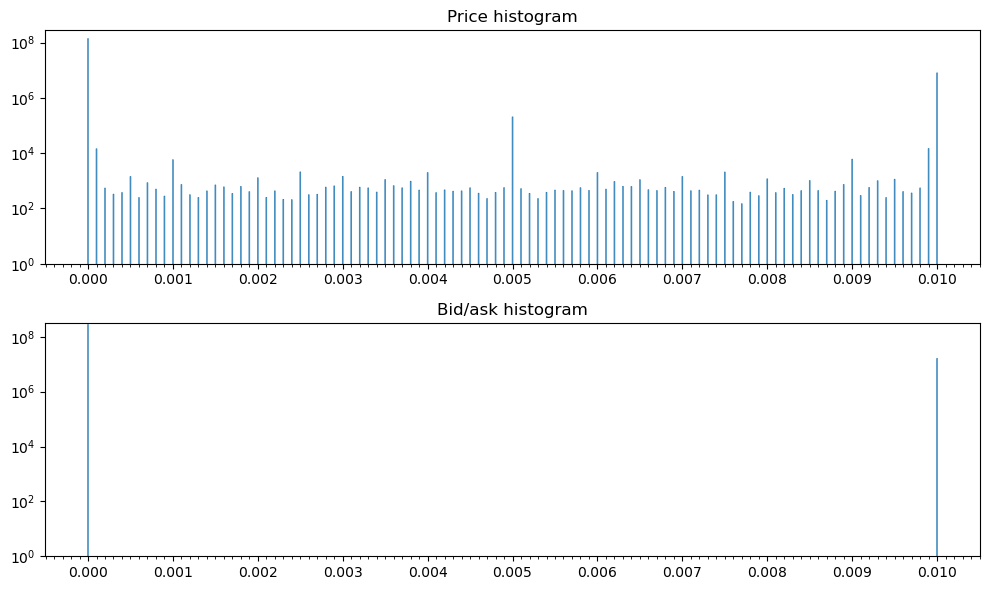
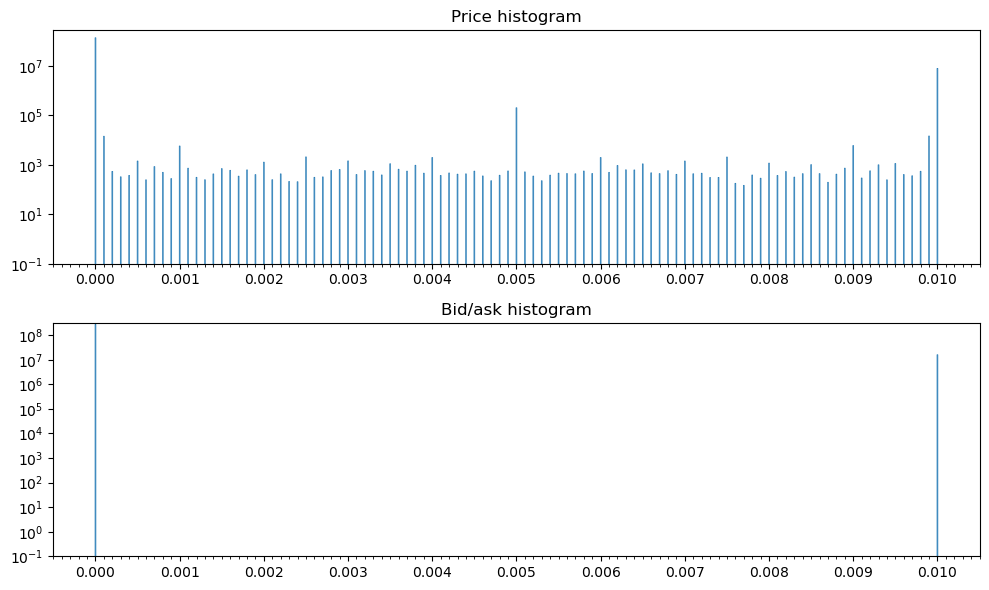
publishing

diff --git a/docs/posts/penny/penny.html b/docs/posts/penny/penny.html
@@ -217,50 +217,59 @@ code span.wa { color: #60a0b0; font-weight: bold; font-style: italic; } /* Warni
 <p>When dealing with market data that is obtained from any source, it is important to understand the precision of the price data for two reasons. The first is that sometimes, comparisons between prices are needed to assign a probability to certain events. For example, to predict whether a buy limit order will be filled, the low price of the next time interval needs to be compared to the limit price of the order. Further, the comparison may need to conclude if the limit price will be reached, indicating a probability of execution, or crossed (i.e., the low price unmistakably reached below the limit price) indicating definite execution (with some unrelated caveats). The second reason has to do with data representation which has implications on the amount of storage needed (both in memory and on disk) as well as processing time. The possible choices are usually 32-bit vs 64-bit and integer vs floating point.</p>
 <p>Although sub-penny quoting is <a href="https://www.sec.gov/divisions/marketreg/subpenny612faq.htm">not allowed</a> by the SEC for orders above $1, it does not prevent trades from happening at any price. It is therefore expected to see open, high, low, close (OHLC) prices that are not multiples of $0.01. Bid and ask OHLC prices, however, are expected to be multiples of $0.01.</p>
 <p>In this post, I will explore the precision characteristics of stock price data that was obtained from a market data vendor and derive suitable data representation for it.</p>
-<div class="cell" data-execution_count="4">
+<div class="cell" data-execution_count="5">
 <div class="cell-output cell-output-display">
 <p>The data comprises 1-minute intervals for 44 symbols over a period of 2590 trading days (between 2012 and 2022). The total number of days from all stocks that have data is 94438 (which is 83% of trading days due to missing data, e.g., stocks that were not in existence during the entire period)</p>
 </div>
 </div>
 <p>Let us plot a histogram of the sub-penny values, with bin width of $0.00001 (1/1000th of a penny).</p>
-<div class="cell" data-execution_count="6">
+<div class="cell" data-execution_count="32">
 <details>
 <summary>Code</summary>
 <div class="sourceCode cell-code" id="cb1"><pre class="sourceCode python code-with-copy"><code class="sourceCode python"><span id="cb1-1"><a href="#cb1-1" aria-hidden="true" tabindex="-1"></a><span class="co"># ohlc has shape (n_days, 3, 4): (n_days, [price,bid,ask], [open,high,low,close])</span></span>
 <span id="cb1-2"><a href="#cb1-2" aria-hidden="true" tabindex="-1"></a>fracs <span class="op">=</span> np.modf(ohlc<span class="op">*</span><span class="fl">100.0</span>)[<span class="dv">0</span>]<span class="op">/</span><span class="fl">100.0</span> <span class="co"># keep only sub-cent fractions</span></span>
-<span id="cb1-3"><a href="#cb1-3" aria-hidden="true" tabindex="-1"></a>samples, step <span class="op">=</span> np.linspace(start<span class="op">=</span><span class="dv">0</span>,stop<span class="op">=</span><span class="fl">.01</span>,num<span class="op">=</span><span class="dv">1001</span>,endpoint<span class="op">=</span><span class="va">True</span>, retstep<span class="op">=</span><span class="va">True</span>)</span>
-<span id="cb1-4"><a href="#cb1-4" aria-hidden="true" tabindex="-1"></a>bins<span class="op">=</span>np.concatenate((samples<span class="op">-</span>step<span class="op">/</span><span class="dv">2</span>, [samples[<span class="op">-</span><span class="dv">1</span>]<span class="op">+</span>step<span class="op">/</span><span class="dv">2</span>]))</span>
-<span id="cb1-5"><a href="#cb1-5" aria-hidden="true" tabindex="-1"></a><span class="co"># these bins have a .0001 width (x±.00005 where x is any multiple of .0001 between 0 and .01)</span></span>
-<span id="cb1-6"><a href="#cb1-6" aria-hidden="true" tabindex="-1"></a><span class="co"># bins can also be set to just the value 1001 (which causes them to be computed automatically)</span></span>
-<span id="cb1-7"><a href="#cb1-7" aria-hidden="true" tabindex="-1"></a></span>
-<span id="cb1-8"><a href="#cb1-8" aria-hidden="true" tabindex="-1"></a>fig<span class="op">=</span>plt.figure(figsize<span class="op">=</span>(<span class="dv">10</span>,<span class="dv">6</span>))</span>
-<span id="cb1-9"><a href="#cb1-9" aria-hidden="true" tabindex="-1"></a></span>
-<span id="cb1-10"><a href="#cb1-10" aria-hidden="true" tabindex="-1"></a><span class="co"># price histogram</span></span>
-<span id="cb1-11"><a href="#cb1-11" aria-hidden="true" tabindex="-1"></a>ax<span class="op">=</span>fig.add_subplot(<span class="dv">211</span>)</span>
-<span id="cb1-12"><a href="#cb1-12" aria-hidden="true" tabindex="-1"></a>ax.hist(fracs[:,<span class="dv">0</span>,:].flatten(), bins<span class="op">=</span>bins, histtype<span class="op">=</span><span class="st">'step'</span>, linewidth<span class="op">=</span><span class="fl">.5</span>, log<span class="op">=</span><span class="va">True</span>) </span>
-<span id="cb1-13"><a href="#cb1-13" aria-hidden="true" tabindex="-1"></a>ax.set_ylim(bottom<span class="op">=</span><span class="fl">1.0</span>)</span>
-<span id="cb1-14"><a href="#cb1-14" aria-hidden="true" tabindex="-1"></a><span class="co"># set x tickmarks every .0001</span></span>
-<span id="cb1-15"><a href="#cb1-15" aria-hidden="true" tabindex="-1"></a>ax.xaxis.set_minor_locator(MultipleLocator(<span class="fl">.0001</span>))</span>
-<span id="cb1-16"><a href="#cb1-16" aria-hidden="true" tabindex="-1"></a>ax.xaxis.set_major_locator(MultipleLocator(<span class="fl">.001</span>))</span>
-<span id="cb1-17"><a href="#cb1-17" aria-hidden="true" tabindex="-1"></a>ax.set_title(<span class="st">'Price histogram'</span>)</span>
-<span id="cb1-18"><a href="#cb1-18" aria-hidden="true" tabindex="-1"></a></span>
-<span id="cb1-19"><a href="#cb1-19" aria-hidden="true" tabindex="-1"></a><span class="co"># bid/ask histogram</span></span>
-<span id="cb1-20"><a href="#cb1-20" aria-hidden="true" tabindex="-1"></a>ax<span class="op">=</span>fig.add_subplot(<span class="dv">212</span>)</span>
-<span id="cb1-21"><a href="#cb1-21" aria-hidden="true" tabindex="-1"></a>ax.hist(fracs[:,<span class="dv">1</span>:,:].flatten(), bins<span class="op">=</span>bins, histtype<span class="op">=</span><span class="st">'step'</span>, linewidth<span class="op">=</span><span class="fl">.5</span>, log<span class="op">=</span><span class="va">True</span>) </span>
-<span id="cb1-22"><a href="#cb1-22" aria-hidden="true" tabindex="-1"></a>ax.set_ylim(bottom<span class="op">=</span><span class="fl">1.0</span>)</span>
-<span id="cb1-23"><a href="#cb1-23" aria-hidden="true" tabindex="-1"></a><span class="co"># set x tickmarks every .0001</span></span>
-<span id="cb1-24"><a href="#cb1-24" aria-hidden="true" tabindex="-1"></a>ax.xaxis.set_minor_locator(MultipleLocator(<span class="fl">.0001</span>))</span>
-<span id="cb1-25"><a href="#cb1-25" aria-hidden="true" tabindex="-1"></a>ax.xaxis.set_major_locator(MultipleLocator(<span class="fl">.001</span>))</span>
-<span id="cb1-26"><a href="#cb1-26" aria-hidden="true" tabindex="-1"></a>ax.set_title(<span class="st">'Bid/ask histogram'</span>)</span>
-<span id="cb1-27"><a href="#cb1-27" aria-hidden="true" tabindex="-1"></a></span>
-<span id="cb1-28"><a href="#cb1-28" aria-hidden="true" tabindex="-1"></a>plt.tight_layout()</span></code><button title="Copy to Clipboard" class="code-copy-button"><i class="bi"></i></button></pre></div>
+<span id="cb1-3"><a href="#cb1-3" aria-hidden="true" tabindex="-1"></a><span class="co"># can also be done like this:</span></span>
+<span id="cb1-4"><a href="#cb1-4" aria-hidden="true" tabindex="-1"></a><span class="co"># _,w = np.modf(ohlc*100.0)</span></span>
+<span id="cb1-5"><a href="#cb1-5" aria-hidden="true" tabindex="-1"></a><span class="co"># fracs = ohlc - w/100.0</span></span>
+<span id="cb1-6"><a href="#cb1-6" aria-hidden="true" tabindex="-1"></a>samples, step <span class="op">=</span> np.linspace(start<span class="op">=</span><span class="dv">0</span>,stop<span class="op">=</span><span class="fl">.01</span>,num<span class="op">=</span><span class="dv">1001</span>,endpoint<span class="op">=</span><span class="va">True</span>, retstep<span class="op">=</span><span class="va">True</span>)</span>
+<span id="cb1-7"><a href="#cb1-7" aria-hidden="true" tabindex="-1"></a>bins<span class="op">=</span>np.concatenate((samples<span class="op">-</span>step<span class="op">/</span><span class="dv">2</span>, [samples[<span class="op">-</span><span class="dv">1</span>]<span class="op">+</span>step<span class="op">/</span><span class="dv">2</span>]))</span>
+<span id="cb1-8"><a href="#cb1-8" aria-hidden="true" tabindex="-1"></a><span class="co"># these bins have a .0001 width (x±.00005 where x is any multiple of .0001 between 0 and .01)</span></span>
+<span id="cb1-9"><a href="#cb1-9" aria-hidden="true" tabindex="-1"></a><span class="co"># bins can also be set to just the value 1001 (which causes them to be computed automatically)</span></span>
+<span id="cb1-10"><a href="#cb1-10" aria-hidden="true" tabindex="-1"></a></span>
+<span id="cb1-11"><a href="#cb1-11" aria-hidden="true" tabindex="-1"></a>fig<span class="op">=</span>plt.figure(figsize<span class="op">=</span>(<span class="dv">10</span>,<span class="dv">6</span>))</span>
+<span id="cb1-12"><a href="#cb1-12" aria-hidden="true" tabindex="-1"></a></span>
+<span id="cb1-13"><a href="#cb1-13" aria-hidden="true" tabindex="-1"></a><span class="co"># price histogram</span></span>
+<span id="cb1-14"><a href="#cb1-14" aria-hidden="true" tabindex="-1"></a>ax<span class="op">=</span>fig.add_subplot(<span class="dv">211</span>)</span>
+<span id="cb1-15"><a href="#cb1-15" aria-hidden="true" tabindex="-1"></a>ax.hist(fracs[:,<span class="dv">0</span>,:].flatten(), bins<span class="op">=</span>bins, histtype<span class="op">=</span><span class="st">'step'</span>, linewidth<span class="op">=</span><span class="fl">.5</span>, log<span class="op">=</span><span class="va">True</span>) </span>
+<span id="cb1-16"><a href="#cb1-16" aria-hidden="true" tabindex="-1"></a><span class="co"># start below 1.0 so even a count of 1 shows up; show all powers</span></span>
+<span id="cb1-17"><a href="#cb1-17" aria-hidden="true" tabindex="-1"></a>ax.set_ylim(bottom<span class="op">=</span><span class="fl">0.1</span>)</span>
+<span id="cb1-18"><a href="#cb1-18" aria-hidden="true" tabindex="-1"></a>ax.yaxis.set_major_locator(matplotlib.ticker.LogLocator(numticks<span class="op">=</span><span class="dv">20</span>))</span>
+<span id="cb1-19"><a href="#cb1-19" aria-hidden="true" tabindex="-1"></a>ax.grid(axis<span class="op">=</span><span class="st">'y'</span>)</span>
+<span id="cb1-20"><a href="#cb1-20" aria-hidden="true" tabindex="-1"></a><span class="co"># set x tickmarks every .0001</span></span>
+<span id="cb1-21"><a href="#cb1-21" aria-hidden="true" tabindex="-1"></a>ax.xaxis.set_minor_locator(matplotlib.ticker.MultipleLocator(<span class="fl">.0001</span>))</span>
+<span id="cb1-22"><a href="#cb1-22" aria-hidden="true" tabindex="-1"></a>ax.xaxis.set_major_locator(matplotlib.ticker.MultipleLocator(<span class="fl">.001</span>))</span>
+<span id="cb1-23"><a href="#cb1-23" aria-hidden="true" tabindex="-1"></a>ax.set_title(<span class="st">'Price histogram'</span>)</span>
+<span id="cb1-24"><a href="#cb1-24" aria-hidden="true" tabindex="-1"></a></span>
+<span id="cb1-25"><a href="#cb1-25" aria-hidden="true" tabindex="-1"></a><span class="co"># bid/ask histogram</span></span>
+<span id="cb1-26"><a href="#cb1-26" aria-hidden="true" tabindex="-1"></a>ax<span class="op">=</span>fig.add_subplot(<span class="dv">212</span>)</span>
+<span id="cb1-27"><a href="#cb1-27" aria-hidden="true" tabindex="-1"></a>ax.hist(fracs[:,<span class="dv">1</span>:,:].flatten(), bins<span class="op">=</span>bins, histtype<span class="op">=</span><span class="st">'step'</span>, linewidth<span class="op">=</span><span class="fl">.5</span>, log<span class="op">=</span><span class="va">True</span>) </span>
+<span id="cb1-28"><a href="#cb1-28" aria-hidden="true" tabindex="-1"></a><span class="co"># start below 1.0 so even a count of 1 shows up; show all powers</span></span>
+<span id="cb1-29"><a href="#cb1-29" aria-hidden="true" tabindex="-1"></a>ax.set_ylim(bottom<span class="op">=</span><span class="fl">0.1</span>)</span>
+<span id="cb1-30"><a href="#cb1-30" aria-hidden="true" tabindex="-1"></a>ax.yaxis.set_major_locator(matplotlib.ticker.LogLocator(numticks<span class="op">=</span><span class="dv">20</span>))</span>
+<span id="cb1-31"><a href="#cb1-31" aria-hidden="true" tabindex="-1"></a>ax.grid(axis<span class="op">=</span><span class="st">'y'</span>)</span>
+<span id="cb1-32"><a href="#cb1-32" aria-hidden="true" tabindex="-1"></a><span class="co"># set x tickmarks every .0001</span></span>
+<span id="cb1-33"><a href="#cb1-33" aria-hidden="true" tabindex="-1"></a>ax.xaxis.set_minor_locator(matplotlib.ticker.MultipleLocator(<span class="fl">.0001</span>))</span>
+<span id="cb1-34"><a href="#cb1-34" aria-hidden="true" tabindex="-1"></a>ax.xaxis.set_major_locator(matplotlib.ticker.MultipleLocator(<span class="fl">.001</span>))</span>
+<span id="cb1-35"><a href="#cb1-35" aria-hidden="true" tabindex="-1"></a>ax.set_title(<span class="st">'Bid/ask histogram'</span>)</span>
+<span id="cb1-36"><a href="#cb1-36" aria-hidden="true" tabindex="-1"></a></span>
+<span id="cb1-37"><a href="#cb1-37" aria-hidden="true" tabindex="-1"></a>plt.tight_layout()</span></code><button title="Copy to Clipboard" class="code-copy-button"><i class="bi"></i></button></pre></div>
 </details>
 <div class="cell-output cell-output-display">
 <p><img src="penny_files/figure-html/cell-7-output-1.png" class="img-fluid"></p>
 </div>
 </div>
-<p>Two observations can be made from the histograms. First, the prices occur at 0.0001 intervals (1/100th of a penny). We know this because the histogram has 10 times more bins and all but those 100 are empty. Second, the bid/ask prices, as expected, are multiples of $0.01. We also see that the bin surrounding $0.01 is nonempty which means that the prices may have some numeric precision fluctuation around their expected discrete values. But this is likely due to how we computed the sub-penny fractions (which involved multiplying by 100). To verify that, we can compare the original data to its rounded (to 4 decimals for price and to 2 decimals for bid/ask) version:</p>
-<div class="cell" data-execution_count="7">
+<p>Two observations can be made from the histograms. First, the prices occur at 0.0001 intervals (1/100th of a penny). We know this because the histogram has 10 times more bins and all but those 100 are empty. Second, the bid/ask prices, as expected, are multiples of $0.01. We also see that the bin surrounding $0.01 is nonempty which means that the prices may have some numeric precision fluctuation around their expected discrete values. But this is likely introduced in the process of extracting the sub-penny fractions. To verify that, we can compare the original data to its rounded (to 4 decimals for price and to 2 decimals for bid/ask) version:</p>
+<div class="cell" data-execution_count="8">
 <div class="sourceCode cell-code" id="cb2"><pre class="sourceCode python code-with-copy"><code class="sourceCode python"><span id="cb2-1"><a href="#cb2-1" aria-hidden="true" tabindex="-1"></a><span class="co"># price</span></span>
 <span id="cb2-2"><a href="#cb2-2" aria-hidden="true" tabindex="-1"></a><span class="bu">print</span>(np.array_equal(ohlc[:,<span class="dv">0</span>,:], np.<span class="bu">round</span>(ohlc[:,<span class="dv">0</span>,:], decimals<span class="op">=</span><span class="dv">4</span>)))</span>
 <span id="cb2-3"><a href="#cb2-3" aria-hidden="true" tabindex="-1"></a><span class="co"># bid/ask</span></span>
@@ -270,13 +279,13 @@ code span.wa { color: #60a0b0; font-weight: bold; font-style: italic; } /* Warni
 True</code></pre>
 </div>
 </div>
-<p>Let’s talk about data representation. The data source is 64-bit floating point and as such, <code>np.float64</code> numpy arrays will work fine. When comparing two values for <em>reach or cross</em> and <em>strictly cross</em> (from above), the &lt;= and &lt; operators can used respectively. Had there been noise due to numeric precision, the following tests (which also work when there is no noise) are guaranteed to work given what we know about the multiple of $0.0001 price precision of this data:</p>
+<p>Let’s talk about data representation. The data source is 64-bit floating point and as such, <code>np.float64</code> numpy arrays will work fine. When comparing two values for <em>reach or cross</em> and <em>strictly cross</em> (from above), the &lt;= and &lt; operators can used respectively. Had there been noise due to numeric precision, the following safer tests (which also work when there is no noise) are guaranteed to work given what we know about the multiple of $0.0001 price precision of this data:</p>
 <ul>
 <li><code>a</code> <em>reaches or crosses</em> <code>b</code> from above: <code>a &lt; b + 0.00005</code></li>
 <li><code>a</code> <em>strictly crosses</em> <code>b</code> from above: <code>a &lt; b - 0.00005</code></li>
 </ul>
 <p>It is <em>not</em> possible, however, to preserve the inherent precision of the data by using 32-bit floating point without making strong assumptions about the maximum price. The following example illustrates this:</p>
-<div class="cell" data-execution_count="8">
+<div class="cell" data-execution_count="9">
 <div class="sourceCode cell-code" id="cb4"><pre class="sourceCode python code-with-copy"><code class="sourceCode python"><span id="cb4-1"><a href="#cb4-1" aria-hidden="true" tabindex="-1"></a><span class="bu">print</span>(np.float32(<span class="fl">1026.4101</span>)<span class="op">==</span>np.float32(<span class="fl">1026.4102</span>))</span>
 <span id="cb4-2"><a href="#cb4-2" aria-hidden="true" tabindex="-1"></a><span class="bu">print</span>(np.float32(<span class="fl">1026.41</span>)<span class="op">==</span>np.float32(<span class="fl">1026.41005</span>))</span></code><button title="Copy to Clipboard" class="code-copy-button"><i class="bi"></i></button></pre></div>
 <div class="cell-output cell-output-stdout">
@@ -284,9 +293,9 @@ True</code></pre>
 True</code></pre>
 </div>
 </div>
-<div class="cell" data-execution_count="9">
+<div class="cell" data-execution_count="10">
 <div class="cell-output cell-output-display">
-<p>32-bit unsigned integer is a viable option if we store the prices multiplied by 10000. Comparisons are also straightforward using the comparison operators. The only limitation is that the maximum representable price is $429,496.7295. This is not a problem for most stocks with the exception of <a href="https://g.co/finance/BRK.A:NYSE">BRK.A</a>.</p>
+<p>32-bit unsigned integer is a viable option if we store the prices multiplied by 10000. Comparisons in this case are also straightforward using the comparison operators. The only limitation is that the maximum representable price is $429,496.7295. This is not a problem for most stocks with the exception of <a href="https://g.co/finance/BRK.A:NYSE">BRK.A</a>.</p>
 </div>
 </div>
 <section id="conclusions" class="level1">

diff --git a/docs/index.html b/docs/index.html
@@ -166,7 +166,7 @@ ul.task-list li input[type="checkbox"] {
 
 <div class="quarto-listing quarto-listing-container-default" id="listing-listing">
 <div class="list quarto-listing-default">
-<div class="quarto-post image-right" data-index="0" data-categories="code,analysis,finance" data-listing-date-sort="1669874400000" data-listing-file-modified-sort="1669975002396" data-listing-reading-time-sort="2.875">
+<div class="quarto-post image-right" data-index="0" data-categories="code,analysis,finance" data-listing-date-sort="1669874400000" data-listing-file-modified-sort="1670012980956" data-listing-reading-time-sort="2.86">
 <div class="body">
 <a href="./posts/penny/penny.html">
 <h3 class="no-anchor listing-title">
